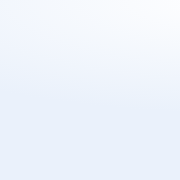
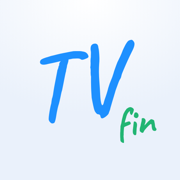
Значки 180 и 192: исправлены пустые (уменьшены из 512), метка v=3

Changed region(s): [[0.2222, 0.2222, 0.75, 0.6944], [0.6667, 0.5833, 0.8889, 0.8056]]

diff --git a/index.html b/index.html
@@ -17,11 +17,11 @@
   <meta name="apple-mobile-web-app-title" content="TrueVet fin">
   <meta name="mobile-web-app-capable" content="yes">
   <meta name="robots" content="noindex, nofollow">
-  <link rel="apple-touch-icon" sizes="180x180" href="apple-touch-icon.png?v=2">
-  <link rel="apple-touch-icon" sizes="192x192" href="icon-192.png?v=2">
-  <link rel="icon" type="image/png" sizes="192x192" href="icon-192.png?v=2">
-  <link rel="icon" type="image/png" sizes="512x512" href="icon-512.png?v=2">
-  <link rel="manifest" href="manifest.webmanifest?v=2">
+  <link rel="apple-touch-icon" sizes="180x180" href="apple-touch-icon.png?v=3">
+  <link rel="apple-touch-icon" sizes="192x192" href="icon-192.png?v=3">
+  <link rel="icon" type="image/png" sizes="192x192" href="icon-192.png?v=3">
+  <link rel="icon" type="image/png" sizes="512x512" href="icon-512.png?v=3">
+  <link rel="manifest" href="manifest.webmanifest?v=3">
   <style>
     html, body { margin: 0; padding: 0; height: 100%; background: #f3f6fb; overflow: hidden; }
     iframe { display: block; border: 0; width: 100%; height: 100%; }
